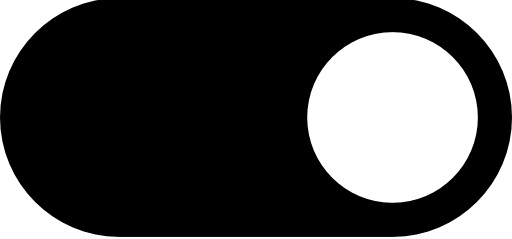
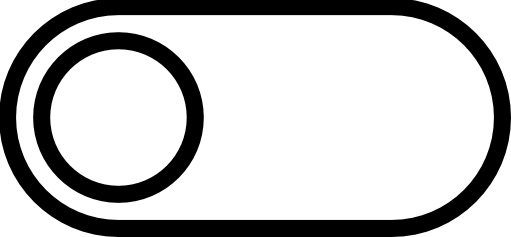
Add simulation

diff --git a/Project Code Framework/simulation.cpp b/Project Code Framework/simulation.cpp
@@ -11,92 +11,33 @@ simulation::simulation(ApplicationManager* pApp) : Action(pApp)
 }
 void simulation::ReadActionParameters()
 {
-	//Get a Pointer to the Input
-
+	//Get a Pointer to the Input / Output Interfaces
+	Output* pOut = pManager->GetOutput();
 	Input* pIn = pManager->GetInput();
-	Output* pOut = pManager->GetOutput();	
-	//pOut->PrintMsg(" simulatioon ");
+	
+	
+	//Print Action Message
+	pOut->PrintMsg("Click to select a switch");
 
-	//pOut->ClearStatusBar();
-
-	//pOut->CreateSimulationToolBar();
-	//pOut->PrintMsg(" simulatioon22 ");
 	//Wait for User Input
-	//pIn->GetPosition(x, y);
+	pIn->GetPointClicked(Cx, Cy);
 
 	//Clear Status Bar
-	//pOut->ClearStatusBar();
+	pOut->ClearStatusBar();
 }
 //Execute action
 void simulation::Execute()
 {
-	ReadActionParameters(); // i think it must be in while or put getposition
-	int compcount = pManager->GetCompCount(); 
-	int c = 1; int numofin = 0; int numofop = 0; //ahmed
-	Component** comp = pManager->getcomplist(); //was in loop
-	while (true) { 
-		ReadActionParameters(); // i think it must be in while or put getposition
-		Input* pIn = pManager->GetInput();//remove
-		Output* pOut = pManager->GetOutput();
-		//pIn->GetSrting(pOut, "enter loop ", " ");
-		numofop = 0;//msh mota2kd en mafrod ttdaf hena
-		for (int i = 0; i < compcount; i++) {
-			numofin=comp[i]->GetNumOfInputs();
-			int c = 1;
-
-			Switch* switchh = dynamic_cast<Switch*>(comp[i]);
-			if (switchh) {
-				if (comp[i]->GetOutPinStatus() != HIGH && switchh->GetOutPinStatus() != LOW)
-				{
-					//pIn->GetSrting(pOut, "enter cheak ", " ");
-					string msg1 = " ASSIGN SWITCH ";
-					string msg2 = "HIGH OR LOW : ";
-					string name = switchh->getlabel();
-					string msg = msg1 + name + msg2;
-					string str = pIn->GetSrting(pOut, msg, " ");
-					if (str == "HIGH") {
-						switchh->setoutputpenstatus(HIGH);
-					}
-
-					else if (str == "LOW") {
-						switchh->setoutputpenstatus(LOW);
-					}
-				}
-			}
-			for (int a = 1; a <= numofin; a++) {
-				//pOut->ClearStatusBar();
-				//pIn->GetSrting(pOut, "enter cheak ", " ");
-				if (comp[i]->GetInputPinStatus(a) == UNASSIGNED){
-					c = 0; 
-					break;
-				}
-			}
-			if (c) {
-				Switch* switchh = dynamic_cast<Switch*>(comp[i]);
-				LED* led = dynamic_cast<LED*>(comp[i]);
-				if (led) {
-					numofop++;
-					//pIn->GetSrting(pOut, "entered high wl a la ", " ");
-					if (led->GetInputPinStatus() == HIGH) {
-						Output* pOut = pManager->GetOutput();
-						//pOut->PrintMsg("highhhhh");
-						pOut->DrawLED(led->Getinfo(pOut), true);
-						//pIn->GetSrting(pOut, "entered high ", " ");
-						//continue;
-					}
-					}
-				if (!switchh /*&& !led*/) {
-					comp[i]->Operate();
-				}
-				//pOut->ClearStatusBar();
-				//pIn->GetSrting(pOut, "enter operate ", " ");
-				numofop++;
-				}
-		}
-		if (numofop == compcount) {
-			break;
-		}
-	}
+	ReadActionParameters();
+	Component* pc = pManager->GetClickedComponent(Cx, Cy);
+	if (pc == NULL || !dynamic_cast<Switch *>(pc))
+		return;
+	if (pc->GetOutputPin()->getStatus() == STATUS::HIGH)
+		pc->GetOutputPin()->setStatus(STATUS::LOW);
+	else
+		pc->GetOutputPin()->setStatus(STATUS::HIGH);
+	pManager->OperateAll();
+	pManager->UpdateInterface();
 }
 
 //To undo this action 

diff --git a/Project Code Framework/ApplicationManager.cpp b/Project Code Framework/ApplicationManager.cpp
@@ -207,27 +207,9 @@ void ApplicationManager::ExecuteAction(ActionType ActType)
 }
 ////////////////////////////////////////////////////////////////////
 
-void ApplicationManager::UpdateInterface(int Cx,int Cy)
+void ApplicationManager::UpdateInterface()
 {
 	OutputInterface->ClearDrawingArea();
-	/*
-  for (int i = 0; i < CompCount; i++) {
-		CompList[i]->Draw(OutputInterface);
-		//CompList[i]->Draw(OutputInterface);
-		string label = CompList[i]->getlabel();
-		const char* cpText = label.c_str();
-		//InputInterface->GetPointClicked(Cx, Cy);
-		CompList[i]->drawname(OutputInterface, Cx - 1, Cy - 1, cpText);
-
-		/*
-		int Cx, Cy;
-		string label = CompList[i]->getlabel();
-		const char* cpText = label.c_str();
-		InputInterface->GetPosition(Cx, Cy);
-		OutputInterface->Printstringg(Cx - 2, Cy - 4, cpText);
-		*/
-	}
-*/
 		for(int i=0; i<CompCount; i++)
 			CompList[i]->Draw(OutputInterface);
 }
@@ -604,6 +586,12 @@ void ApplicationManager::DeleteComp()
 		
 
 		}
+}
+void ApplicationManager::OperateAll()
+{
+	for (int i = 0; i < CompCount; i++) {
+		CompList[i]->Operate();
+	}
 }
 /////////////////////////////////////////////////////////////
 

diff --git a/Project Code Framework/Components/LED.cpp b/Project Code Framework/Components/LED.cpp
@@ -7,7 +7,7 @@ LED::LED(const GraphicsInfo& r_GfxInfo):Component(r_GfxInfo)
 
 void LED::Operate()
 {
-	m_InputPin.setStatus(m_InputPin.getStatus());
+	// m_InputPin.setStatus(m_InputPin.getStatus());
 
 }
 
@@ -17,11 +17,10 @@ int LED::GetNumOfInputs() {
 
 void LED::Draw(Output* pOut)
 {
-
 	if(m_InputPin.getStatus()==HIGH)
-		pOut->DrawLED(m_GfxInfo, IfSelected); //when on
+		pOut->DrawLED(m_GfxInfo, true); //when on
 	else 
-		pOut->DrawLED(m_GfxInfo, IfSelected); //when off
+		pOut->DrawLED(m_GfxInfo, false); //when off
 }
 
 

diff --git a/Project Code Framework/Components/Switch.cpp b/Project Code Framework/Components/Switch.cpp
@@ -11,15 +11,16 @@ void Switch::Operate()
 
 void Switch::Draw(Output* pOut)
 {
-	pOut->DrawSwitch(m_GfxInfo);
+	if (m_OutputPin.getStatus() == HIGH)
+		pOut->DrawSwitch(m_GfxInfo, true); //when on
+	else
+		pOut->DrawSwitch(m_GfxInfo, false); //when off
 }
 
 int Switch::GetNumOfInputs() {
 	return 0; //check this ahmed
 }
-int Switch::GetNumOfOutputs() {
-	return 1; //check this ahmed
-}
+
 
 void Switch::DrawFrame(Output* pOut)
 {

diff --git a/Project Code Framework/Components/Gate.h b/Project Code Framework/Components/Gate.h
@@ -26,7 +26,7 @@ public:
 
 	virtual OutputPin* GetOutputPin();
 	virtual InputPin* GetInputPins(int i);
-  virtual int GetNumOfInputs(); // Ahmed
+	virtual int GetNumOfInputs(); // Ahmed
 	virtual int GetPinNumber();
 
 	virtual void Load(std::ifstream& stream);

diff --git a/Project Code Framework/simulation.h b/Project Code Framework/simulation.h
@@ -6,7 +6,7 @@
 class simulation : public Action
 {
 private:
-	//int x, y;
+	int Cx, Cy;
 	//Component* point;
 public:
 	simulation(ApplicationManager* pApp);

diff --git a/Project Code Framework/ApplicationManager.h b/Project Code Framework/ApplicationManager.h
@@ -81,6 +81,7 @@ public:
 	
 	void DeleteComp(); // delete the last selected comp
 
+	void OperateAll();
 
 	//destructor
 	~ApplicationManager();
